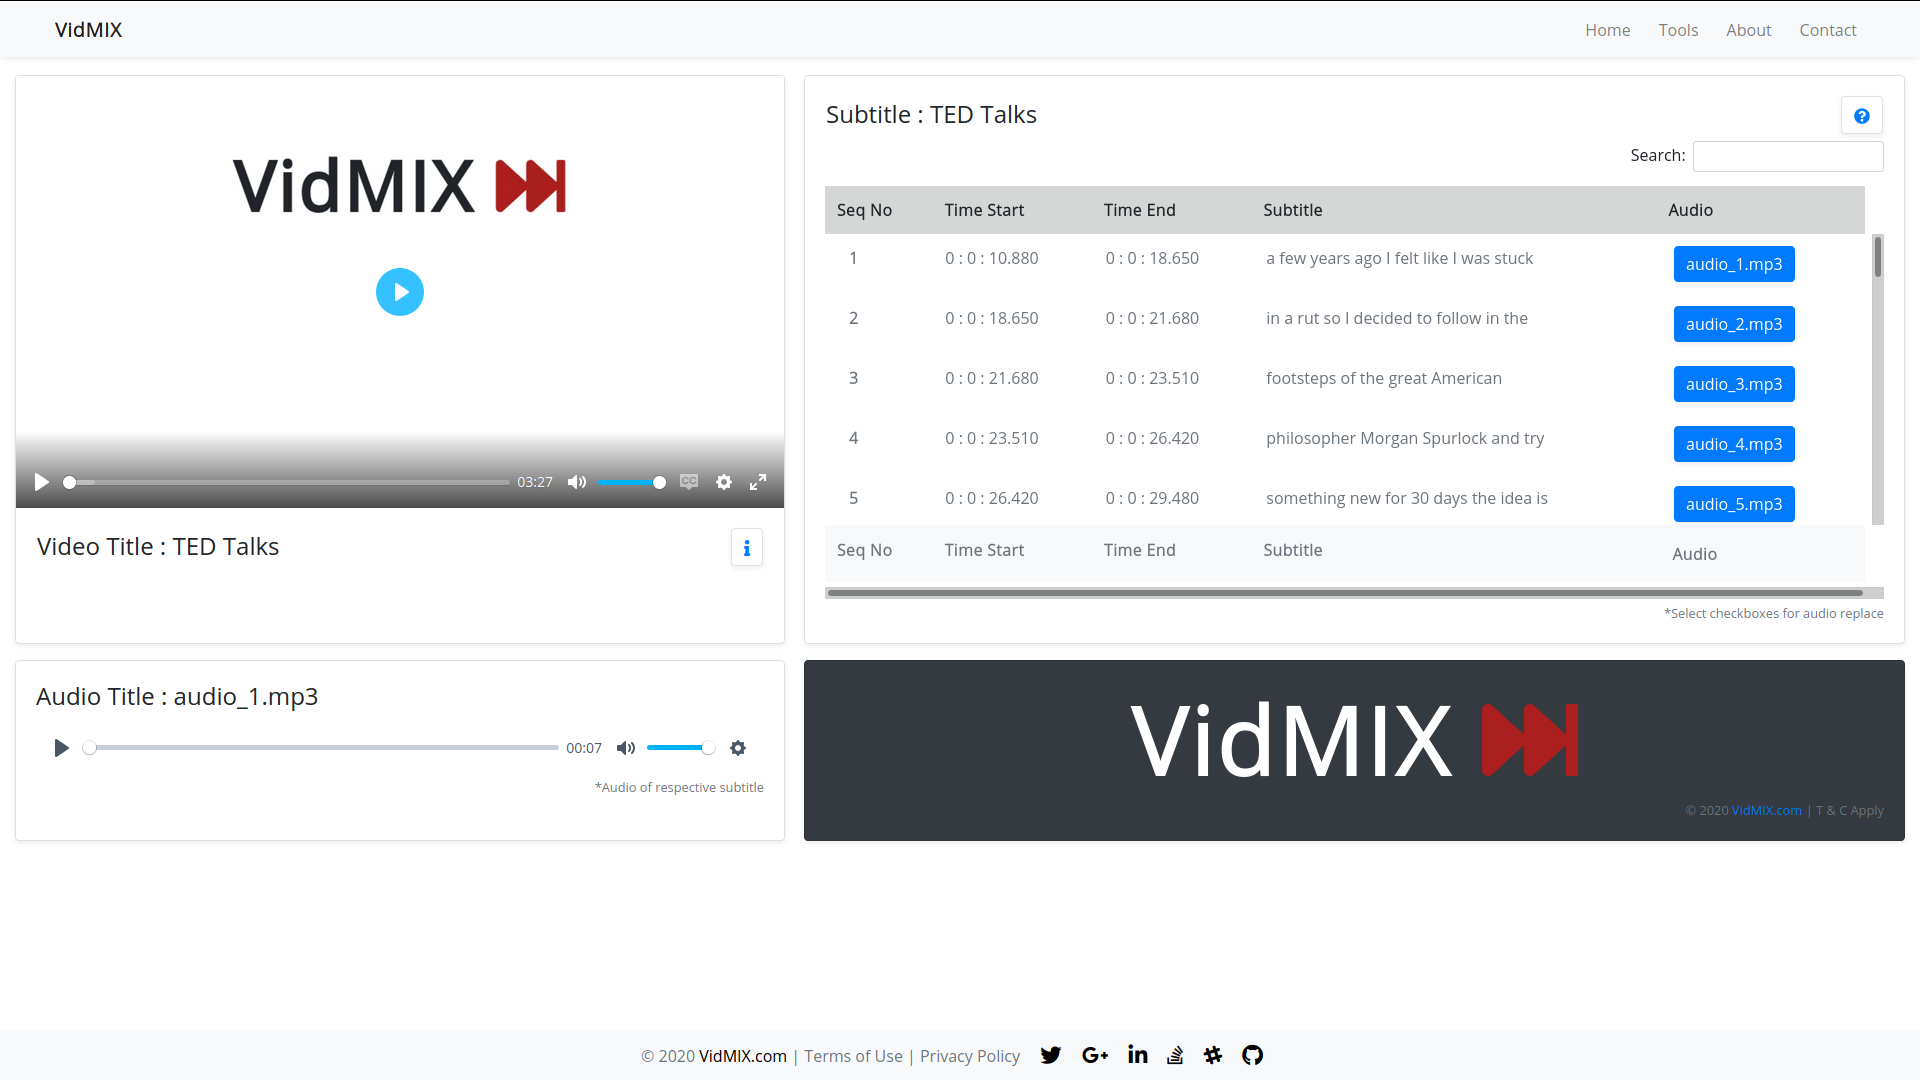
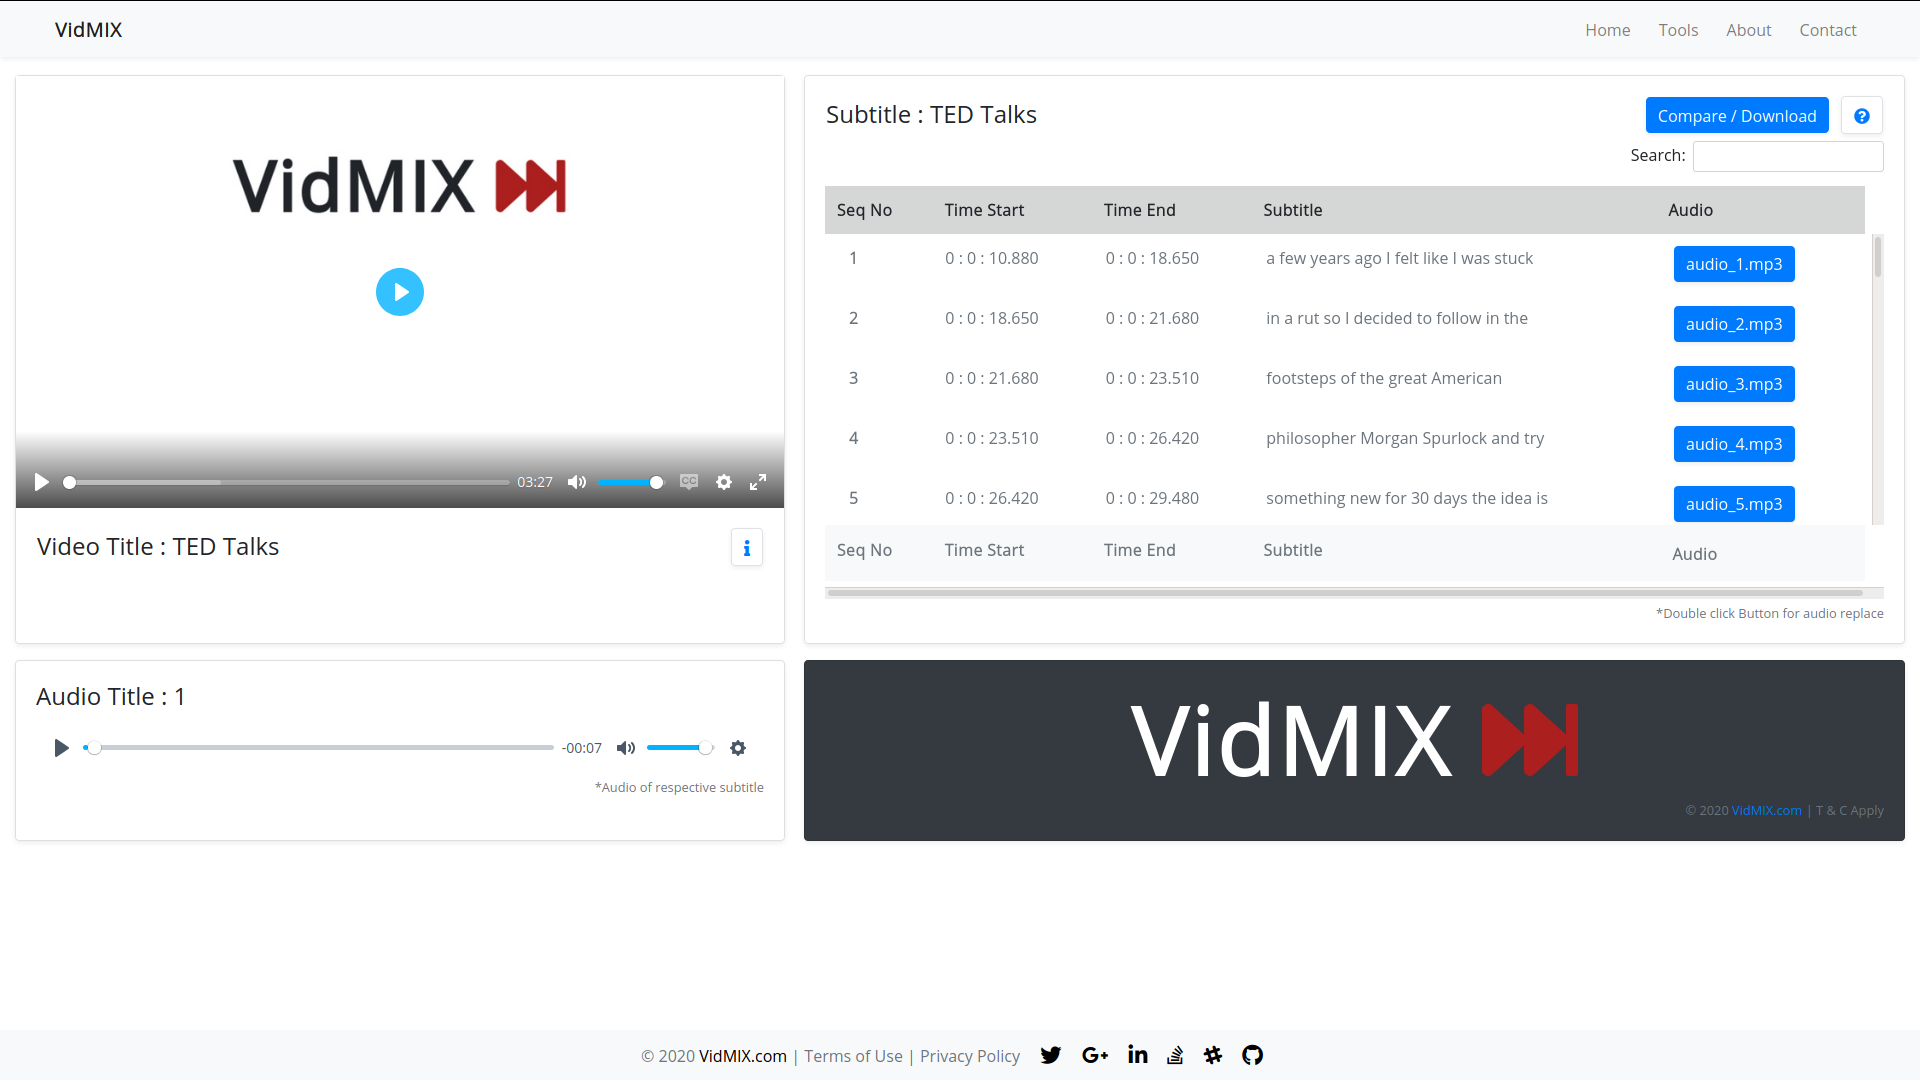
Added change audio and download

diff --git a/vidmix/tools/templates/tools/modal.html b/vidmix/tools/templates/tools/modal.html
@@ -1,3 +1,4 @@
+{% load static %}
 <!-- HELP Modal -->
 <div class="modal fade" id="HelpModal" tabindex="-1" role="dialog" aria-labelledby="HelpModalTitle" aria-hidden="true">
   <div class="modal-dialog modal-dialog-centered" role="document">
@@ -10,11 +11,14 @@
         </button>
       </div>
       <div class="modal-body">
-        Dashboard features : <br>
-        1 . Single click for listening Audio. <br>
-        2 . Double Click for audio change form. <br>
-        3 . Click Info [ <i class="fas fa-info"></i> ] button for more information. <br>
-        4 . Click Info [ <i class="fas fa-question-circle"></i> ] button for more Help. <br>
+        <div class="h5 font-weight-bold text-muted">Dashboard features :</div>
+        1 . <b>Single Click</b> button for listening Audio<br>
+        <div class="p-0 m-0 my-2">2 . <b>Double Click</b> button for Audio change form<br></div>
+        3 . Click <button type="button" class="btn btn-outline-primary shadow-sm border py-0 my-1"><i
+            class="fas fa-info"></i></button> &nbsp;for more information<br>
+        4 . Click <button type="button" class="btn btn-outline-primary shadow-sm border py-0 my-1"><i
+            class="fas fa-question-circle"></i></button> &nbsp;for more Help <br>
+        5 . <button class="btn btn-primary border-0 shadow-sm border py-0 my-1"><i class="fa fa-download" aria-hidden="true"></i>&nbsp;Download</button> button will appear if changes has been done
       </div>
       <div class="modal-footer">
         <button type="button" class="btn btn-outline-secondary" data-dismiss="modal">Close</button>
@@ -24,8 +28,8 @@
 </div>
 
 <!-- Audio Replace Modal -->
-<div class="modal fade" id="audioUpload" tabindex="-1" role="dialog"
-  aria-labelledby="exampleModalCenterTitle" aria-hidden="true">
+<div class="modal fade" id="audioUpload" tabindex="-1" role="dialog" 
+ aria-labelledby="exampleModalCenterTitle" aria-hidden="true">
   <div class="modal-dialog modal-dialog-centered" role="document">
     <div class="modal-content ">
       <form ng-controller="formCtrl">
@@ -37,7 +41,7 @@
         </div>
         <div class="modal-body p-3 pt-4">
           <div class="form-group pb-2">
-            <p class="h5 text-center">Audio</p>
+            <p class="h5 text-center">audio_{$ mtitle $}.mp3</p>
           </div>
           <div class="form-group">
             <input type="text" class="form-control" ng-model="replace.subtitle" placeholder="Subtitle text ..."
@@ -47,15 +51,61 @@
             <input type="file" class="custom-file-input" file-model="replace.audio" id="changeAudio" name="myfile" accept="audio/*">
             <label id="changeAudioLabel" class="custom-file-label" for="changeAudio">Choose file</label>
           </div>
-          <div>
-            <p><!-- {$ object.read $} --></p>
-          </div>
         </div>
         <div class="modal-footer">
           <button type="button" class="btn btn-outline-secondary" data-dismiss="modal">Close</button>
           <button type="button" ng-click="submit($event)" class="btn btn-outline-primary">Save changes</button>
         </div>
       </form>
+    </div>
+  </div>
+</div>
+
+<!-- Comapre and Download modal -->
+<div class="modal fade bd-example-modal-xl" tabindex="-1" role="dialog" aria-labelledby="myLargeModalLabel"
+  aria-hidden="true">
+  <div class="modal-dialog modal-xl" role="document">
+    <div class="modal-content">
+      <div class="modal-header">
+        <h5 class="modal-title" id="exampleModalScrollableTitle">Compare / Download</h5>
+        <button type="button" class="close" data-dismiss="modal" aria-label="Close">
+          <span aria-hidden="true">&times;</span>
+        </button>
+      </div>
+      <div class="modal-body">
+        <div class="row">
+          <div class="col-lg-6 col-12">
+            <div class="card h-100 shadow-sm">
+              <video id="replaceVplay" poster="{% static 'images/poster.jpg' %}" class="js-player card-img-top">
+                <source src="{{ MEDIA_URL }}{{ id }}/video/new.mp4" />
+                <track kind="captions" label="English captions" src="{{ MEDIA_URL }}{{subfile}}" srclang="en" default />
+              </video>
+              <div class="card-body">
+                <div class="row px-3 py-0">
+                  <p class="card-title h5 mt-1">{{title}} : <span class="text-muted">(Edited)</span></p>
+                </div>
+              </div>
+            </div>
+          </div>
+          <div class="col-lg-6 col-12 mt-lg-0 mt-3">
+            <div class="card h-100 shadow-sm">
+              <video id="vplay" poster="{% static 'images/poster.jpg' %}" class="js-player card-img-top" muted>
+                <source src="{{ MEDIA_URL }}{{videofile}}" />
+                <track kind="captions" label="English captions" src="{{ MEDIA_URL }}{{subfile}}" srclang="en" default />
+              </video>
+              <div class="card-body">
+                <div class="row px-3 py-0">
+                  <p class="card-title h5 mt-1">{{title}} : <span class="text-muted">(Original)</span></p>
+                </div>
+              </div>
+            </div>
+          </div>
+        </div>
+      </div>
+      <div class="modal-footer">
+        <button type="button" class="btn btn-outline-secondary" data-dismiss="modal">Close</button>
+        <a class="btn btn-primary border-0 shadow-sm" href="{{ MEDIA_URL }}{{ id }}/video/new.mp4" download><i class="fa fa-download" aria-hidden="true"></i>&nbsp;Download</a>
+      </div>
     </div>
   </div>
 </div>

diff --git a/vidmix/tools/templates/tools/edit.html b/vidmix/tools/templates/tools/edit.html
@@ -33,13 +33,13 @@
 
 <body>
   {% include 'tools/navbar.html' %}
-  {% include 'tools/modal.html' %}
   <div class="container-fluid" ng-app="angularApp">
+    {% include 'tools/modal.html' %}
     <!-- VIDEO DISPLAY -->
     <div class="row row-cols-1 row-cols-lg-2" style="margin-top: 50px;">
       <div class="col-lg-5 col-12 mb-3 order-1">
         <div class="card h-100 shadow-sm">
-          <video id="vplay" poster="{% static 'images/poster.jpg' %}" class="js-player card-img-top">
+          <video id="vplay" poster="{% static 'images/poster.jpg' %}" class="js-player card-img-top" muted>
             <source src="{{ MEDIA_URL }}{{videofile}}" />
             <track kind="captions" label="English captions" src="{{ MEDIA_URL }}{{subfile}}" srclang="en" default />
           </video>
@@ -75,6 +75,9 @@
             <div class="row px-3 py-0">
               <p class="card-title h4 mt-1">Subtitle : {{title}}</p>
               <div class="ml-auto">
+                <span class="invisible" id="download">
+                  <button type="button" class="btn btn-primary border-0 shadow-sm mr-2" data-toggle="modal" data-target=".bd-example-modal-xl">Compare / Download</button>
+                </span>
                 <button type="button" class="btn btn-outline-primary shadow-sm border m-0" data-toggle="modal"
                   data-target="#HelpModal"><i class="fas fa-question-circle"></i></button>
               </div>
@@ -100,7 +103,7 @@
                     <td>
                       <span ng-controller="btnCtrl">
                         <button
-                          ng-click="$evalAsync(single('{{ MEDIA_URL }}{{ audio_path }}/op_{{dis.0}}.mp3','audio_{{dis.0}}.mp3', '{{dis.4}}' ))"
+                          ng-click="$evalAsync(single('{{ MEDIA_URL }}{{ audio_path }}/op_{{dis.0}}.mp3','{{dis.0}}', '{{dis.4}}' ))"
                           data-target="#audioUpload" ng-dblclick="double()" class="btn btn-primary border-0 shadow-sm">
                           audio_{{dis.0}}.mp3
                         </button>
@@ -120,7 +123,7 @@
                 </tfoot>
               </table>
             </div>
-            <p class="card-text text-right"><small class="text-muted">*Select checkboxes for audio replace</small></p>
+            <p class="card-text text-right"><small class="text-muted">*Double click Button for audio replace</small></p>
           </div>
         </div>
       </div>

diff --git a/vidmix/tools/static/js/angular_custom.js b/vidmix/tools/static/js/angular_custom.js
@@ -60,9 +60,12 @@ app.service('multipartForm', ['$http', function ($http) {
       headers: { 'Content-Type': undefined }
     }).then(function success(response) {
       console.log(response.data.success);
-      $scope.object.read = response.data.success;
-      $scope.replace = angular.copy({});
-      // $scope.reset();
+      document.getElementById("download").className = "visible";
+      document.getElementById("replaceVplay").load();
+      var display = response.data.success;
+      display.concat("Audio For subtitle",response.data.audioid,"has been changed, Go to COMPARE to see changes")
+      $('#audioUpload').modal('hide');
+      alert(response.data.success.concat(" Audio For subtitle ", response.data.audioid," has been changed, Go to compare to see changes"));
     }, function error(response) {
       alert(response.statusText);
     });
@@ -71,11 +74,10 @@ app.service('multipartForm', ['$http', function ($http) {
 
 app.controller('formCtrl', ['$scope', 'multipartForm', function ($scope, multipartForm) {
   $scope.replace = {};
-  $scope.object = { "read": "Fill the Form" }
   $scope.submit = function ($event) {
     $event.preventDefault();
-    $scope.replace = {};
-    var uploadUrl = '/replace/';
+    var videoId = window.location.pathname.split('/')[3];
+    var uploadUrl = "/upload/".concat(videoId, "/", $scope.mtitle, "/");
     multipartForm.post(uploadUrl, $scope.replace);
-	}
+  }
 }]);

diff --git a/vidmix/tools/templates/tools/base.html b/vidmix/tools/templates/tools/base.html
@@ -12,16 +12,12 @@
 
   <!-- CSS Links  -->
   <link rel="stylesheet" href="{%static 'css/bootstrap.min.css' %}">
-  <link rel="stylesheet" href="https://cdn.plyr.io/3.5.6/plyr.css" />
-  <link rel="stylesheet" href="https://cdn.datatables.net/1.10.20/css/dataTables.bootstrap4.min.css">
-  <link rel="stylesheet" href="{%static 'css/style_custom.css' %}">
+ <link rel="stylesheet" href="{%static 'css/style_custom.css' %}">
 
   <!-- JavaScript Links  -->
   <script src="{%static 'js/jquery-3.4.1.js' %} "></script>
   <script src="{%static 'js/bootstrap.min.js' %} "></script>
-  <script src="{%static 'js/vidmix_custom.js' %} "></script>
-  <script src="{%static 'js/angular_custom.js' %} "></script>
-
+  
   <title>
     {% block title %}
     {% endblock %}
@@ -32,7 +28,7 @@
 <body>
   {% include 'tools/navbar.html' %}
 
-  <div class="container-fluid" ng-app="angularApp">
+  <div class="container-fluid">
     {% block content %}
     {% endblock %}
   </div>

diff --git a/vidmix/tools/views.py b/vidmix/tools/views.py
@@ -55,15 +55,44 @@ def edit(request, video_id):
 
 
 from django.http import JsonResponse
+from django.conf import settings
+from django.core.files.storage import FileSystemStorage
+import os
 """ -------- Audio Replace View -------- """
-def replace(request):
-  print("I am HEREREEEEEE")
+def replace(request, video_id, audio_id):
+  # print("I am HEREREEEEEE")
+  try:
+    video = VideoUpload.objects.get(pk=video_id)
+  except VideoUpload.DoesNotExist:
+    raise Http404("Page Does not exist.")
   if request.method == "POST":
-    data = {'success': "Successful Submission"}
+    data = {'success': "Successful !!", 'audioid': audio_id}
   else:
     data = {'success': "Error"}
-  print(data)
-  print(request.POST['subtitle'])
-  print(str(request.FILES['audio']))
-  print(JsonResponse(data))
+
+  sub_replace = request.POST['subtitle']
+  audio_replace = request.FILES['audio']
+  audio_replace_url = settings.MEDIA_ROOT + str(video.id) + '/audio/replace/' + str(audio_id)
+  fs = FileSystemStorage(audio_replace_url)
+  filename = fs.save(audio_replace.name, audio_replace)
+  uploaded_file_url = settings.MEDIA_ROOT + str(video.id) + '/audio/replace/' + str(audio_id) + '/' + filename
+  time_start_end = settings.MEDIA_ROOT + str(video.id) + '/subtitle/' + '/tse.txt'
+  with open(time_start_end) as fp:
+    for i, line in enumerate(fp):
+      if i == (audio_id - 1):
+        res = tuple(map(str, line.split(', ')))
+        end = res[2].rstrip()
+        start = res[1]
+  ip_audio = settings.MEDIA_ROOT + str(video.id) + '/audio' +"/audio.mp3"
+  op_audio = settings.MEDIA_ROOT + str(video.id) + '/audio' +"/new.mp3"
+  p1_audio = audio_replace_url + "/z1.mp3"
+  os.system('ffmpeg -hide_banner -loglevel panic -i {} -ss {} -to {} {}'.format(ip_audio,0,start,p1_audio))
+  p3_audio = audio_replace_url + "/z3.mp3"
+  os.system('ffmpeg -hide_banner -loglevel panic -i {} -ss {}  {}'.format(ip_audio,end,p3_audio))
+  os.system("ffmpeg -hide_banner -loglevel panic -i {} -i {} -i {} -filter_complex '[0:0][1:0][2:0]concat=n=3:v=0:a=1[out]' -map '[out]' {} ".format(p1_audio,uploaded_file_url,p3_audio,op_audio))
+
+  ip_video = settings.MEDIA_ROOT + str(video.videofile)
+  op_video = settings.MEDIA_ROOT + str(video.id) + '/video' +"/new.mp4"
+  os.system("ffmpeg -hide_banner -loglevel panic -i {} -i {} -c:v copy -map 0:v:0 -map 1:a:0 {}".format(ip_video,op_audio,op_video))
+  
   return JsonResponse(data)

diff --git a/vidmix/tools/urls.py b/vidmix/tools/urls.py
@@ -13,5 +13,5 @@ urlpatterns = [
 urlpatterns += [
   path('tools/' , views.tools , name='tools'),
   path('tools/edit/<int:video_id>' , views.edit , name='edit'),
-  path('replace/', views.replace , name='replace'),
+  path('upload/<int:video_id>/<int:audio_id>/', views.replace , name='replace'),
 ]

diff --git a/README.md b/README.md
@@ -1,2 +1,59 @@
-# VidMIX-Django
-video processing app using Django
+# Vid<span style="color: #ac1f1f">MIX</span> - Django
+
+### Django & AngularJS app for Video Editing.
+
+<img src="Example/HOME.png" style="border-radius: 8px" />
+
+<hr>
+
+### Introduction :
+
+This ia a `Django` application that allows a user to upload a video and its `.srt` file containing subtitles. The video will be broken into chunks, based on the timing information specified in the `.srt` file. The corresponding audio will be extracted from each video chunk and stored separately.
+
+For the uploaded video, I had provide a facility that will display the start time, end time, video chunk sequence number, subtitles, and its respective audio `(.mp3)` as shown below. For each audio, there will be a facility to `[Upload]`, in which a user is allowed to re-upload the edited .mp3 file for that video chunk. The `[Download]` button will combine all the video chunks with respective audio chunks into single video `(.mp4 or .ogv)`. 
+
+This Tool help you build, change your video efficiently and easily.
+
+Hope You Enjoy!!
+
+<img src="Example/SUB.jpg" style="border-radius: 8px" />
+
+**Prerequisite :**
+  * `Django-3.0.1`
+  * `Python-3`
+  * `Sqlite3` ( database )
+  * `AngularJS` ( front-end ) 
+  * `ffmpeg` ( video handeling )
+
+<hr>
+
+### Features :
+**1. Trim & Replace :**
+
+>Trim videos into smaller snippets and replace, delete audio for unwanted parts. You can again combine the trimmed clips to form video.
+
+**2. Split & Combine :**
+
+>Cut longer videos into smaller snippets, delete unwanted parts and only keep what you like. You can also combine multiple clips into 1 longer video. 
+
+<hr>
+
+### Setup :
+
+`Make sure you have installed ffmpeg `
+
+Clone the repository.
+> git clone https://github.com/dssudake/VidMIX-Django.git
+
+Create a virtual environment and activate
+>virtualenv venv <br>
+> source venv/bin/activate
+
+Install requirements using pip.
+>pip install -r requirements.txt
+
+Get Project running on [`localhost:8000`](http://localhost:8000/) in browser window.
+>cd vidmix <br>
+>python manage.py runserver
+
+<img src="Example/DARK.jpg" style="border-radius: 8px" />
